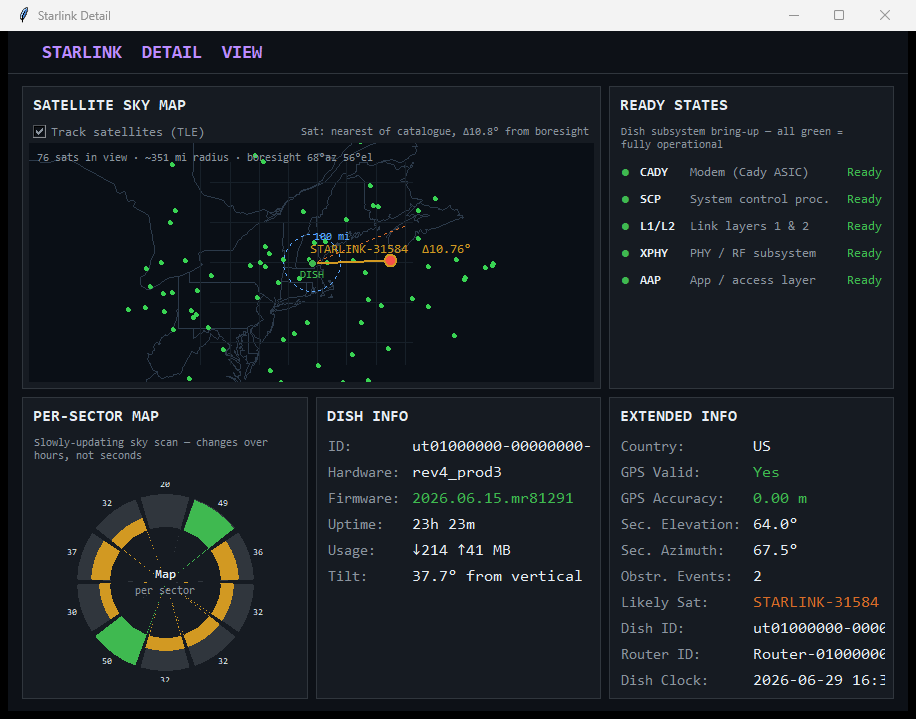
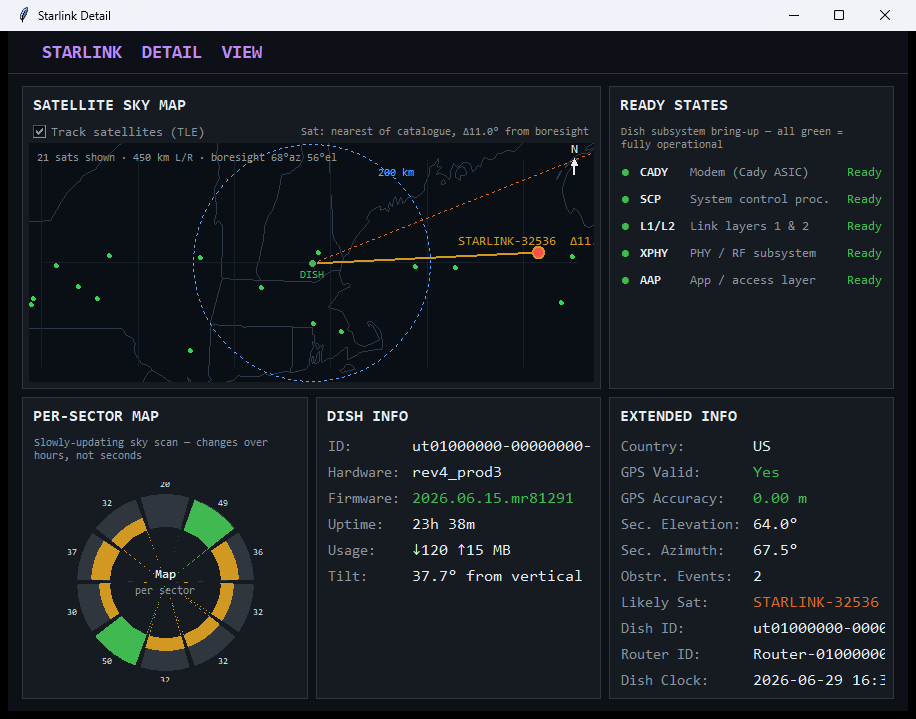
Sky map: fixed 450km L/R scale, 200km reference ring, north indicator
- Replace the per-poll auto-fit zoom with a fixed scale: the left/right edges are
  a constant 450 km from the dish, so the view no longer jumps around.
- Reference ring is now 200 km (was the 100-mile ring).
- Add a north indicator (up-arrow + N) since the map is north-up.
- Boresight bearing line now extends to the panel edge.

diff --git a/starlink_dashboard.py b/starlink_dashboard.py
@@ -1060,10 +1060,11 @@ class BorderMap:
 
 
 class SkyMapPanel:
-    """Top-down, dish-centred sky map: coastline/state/country borders, a 100-mile
-    reference ring, all Starlink sub-satellite points (re-propagated every poll so
-    they move), and the likely satellite highlighted with a line to the dish."""
-    MI_KM = 1.60934
+    """Top-down, dish-centred sky map: coastline/state/country borders, a fixed-scale
+    view with a reference ring, all Starlink sub-satellite points (re-propagated every
+    poll so they move), and the likely satellite highlighted with a line to the dish."""
+    VIEW_HALF_KM = 450.0   # fixed left/right half-range (centre -> left/right edge)
+    RING_KM      = 200.0   # reference ring radius
 
     def __init__(self, parent, sat_enabled_var, on_toggle, status_var):
         self.frame = make_card(parent, "Satellite Sky Map")
@@ -1113,15 +1114,11 @@ class SkyMapPanel:
             return
 
         cx, cy = w / 2.0, h / 2.0
-        radius_px = min(w, h) / 2.0 - 18
-        ring_km = 100 * self.MI_KM
-        view_km = ring_km * 1.05
+        margin = 16
+        # Fixed scale: the left/right edges are VIEW_HALF_KM from the dish, so the
+        # zoom never changes with the satellite geometry.
+        ppk = (w / 2.0 - margin) / self.VIEW_HALF_KM
         li = snap["name"].index(likely) if (snap and likely in snap["name"]) else -1
-        if li >= 0:
-            dkm = self._gc_km(dish_lat, dish_lon, snap["sublat"][li], snap["sublon"][li])
-            view_km = max(view_km, dkm * 1.3)
-        view_km = min(max(view_km, 120.0), 1200.0)
-        ppk = radius_px / view_km
         coslat = max(0.1, math.cos(math.radians(dish_lat)))
 
         def proj(lat, lon):
@@ -1129,8 +1126,11 @@ class SkyMapPanel:
             east = (lon - dish_lon) * 111.32 * coslat
             return cx + east * ppk, cy - north * ppk
 
-        dlat = view_km / 111.32
-        dlon = view_km / (111.32 * coslat)
+        # visible half-extents (km) -> view bbox for border/graticule culling
+        half_w_km = self.VIEW_HALF_KM
+        half_h_km = (h / 2.0 - margin) / ppk
+        dlat = half_h_km / 111.32
+        dlon = half_w_km / (111.32 * coslat)
         vb = (dish_lon - dlon, dish_lat - dlat, dish_lon + dlon, dish_lat + dlat)
 
         # --- borders / coastlines (only rings overlapping the view) ---
@@ -1158,16 +1158,17 @@ class SkyMapPanel:
             c.create_line(x0, y0, x1, y1, fill="#172029")
             la += step
 
-        # --- 100-mile reference ring ---
-        rp = ring_km * ppk
+        # --- reference ring ---
+        rp = self.RING_KM * ppk
         c.create_oval(cx - rp, cy - rp, cx + rp, cy + rp, outline=BLUE, dash=(3, 3))
-        c.create_text(cx + rp * 0.71, cy - rp * 0.71 - 6, text="100 mi",
-                      fill=BLUE, font=F_TINY)
+        c.create_text(cx + rp * 0.71, cy - rp * 0.71 - 6,
+                      text=f"{self.RING_KM:.0f} km", fill=BLUE, font=F_TINY)
 
-        # --- boresight direction ---
+        # --- boresight direction (extend well past the edge; tk clips it) ---
         if baz is not None:
-            bx = cx + math.sin(math.radians(baz)) * radius_px
-            by = cy - math.cos(math.radians(baz)) * radius_px
+            reach = math.hypot(w, h)
+            bx = cx + math.sin(math.radians(baz)) * reach
+            by = cy - math.cos(math.radians(baz)) * reach
             c.create_line(cx, cy, bx, by, fill=ORANGE, dash=(2, 4))
 
         # --- satellites ---
@@ -1190,10 +1191,18 @@ class SkyMapPanel:
             c.create_text(x, y - 12, text=tag, fill=YELLOW, font=F_SMALL)
             n_in += 1
 
-        # --- dish marker + info ---
+        # --- dish marker ---
         c.create_oval(cx - 4, cy - 4, cx + 4, cy + 4, fill=GREEN, outline=BG)
         c.create_text(cx, cy + 11, text="DISH", fill=GREEN, font=F_TINY)
-        info = f"{n_in} sats in view · ~{view_km / self.MI_KM:.0f} mi radius"
+
+        # --- north indicator (map is north-up) ---
+        nx, ny = w - 20, 32
+        c.create_line(nx, ny, nx, ny - 18, fill=TEXT, width=2,
+                      arrow="last", arrowshape=(7, 9, 3))
+        c.create_text(nx, ny - 27, text="N", fill=TEXT, font=F_SMALL)
+
+        # --- info overlay ---
+        info = f"{n_in} sats shown · {self.VIEW_HALF_KM:.0f} km L/R"
         if baz is not None:
             info += f" · boresight {baz:.0f}°az {bel:.0f}°el"
         c.create_text(8, 8, text=info, fill=DIM, font=F_TINY, anchor="nw")

diff --git a/README.md b/README.md
@@ -34,10 +34,10 @@ optional "likely satellite" estimate:
 - **Satellite sky map** — a top-down, dish-centred map (coastlines + state/country
   borders + lat/lon grid) that plots every Starlink satellite's sub-point, moving
   in real time as they're re-propagated each poll. The likely satellite is
-  highlighted with a line to the dish and its boresight offset; a 100-mile
-  reference ring is drawn and the view auto-fits to keep the likely sat visible.
-  (Borders come from a one-time cached Natural Earth GeoJSON; falls back to a grid
-  if offline.)
+  highlighted with a line to the dish and its boresight offset. Fixed scale
+  (~450 km left/right) with a 200 km reference ring, a boresight bearing line, and
+  a north indicator. (Borders come from a one-time cached Natural Earth GeoJSON;
+  falls back to a grid if offline.)
 - Per-sector map — 10-segment radial ring chart of the dish's per-sector sky
   scan (field 1028); a slowly-updating map that shifts over hours, not seconds
 - Ready-states indicator — each dish subsystem bring-up flag (CADY, SCP, L1/L2,